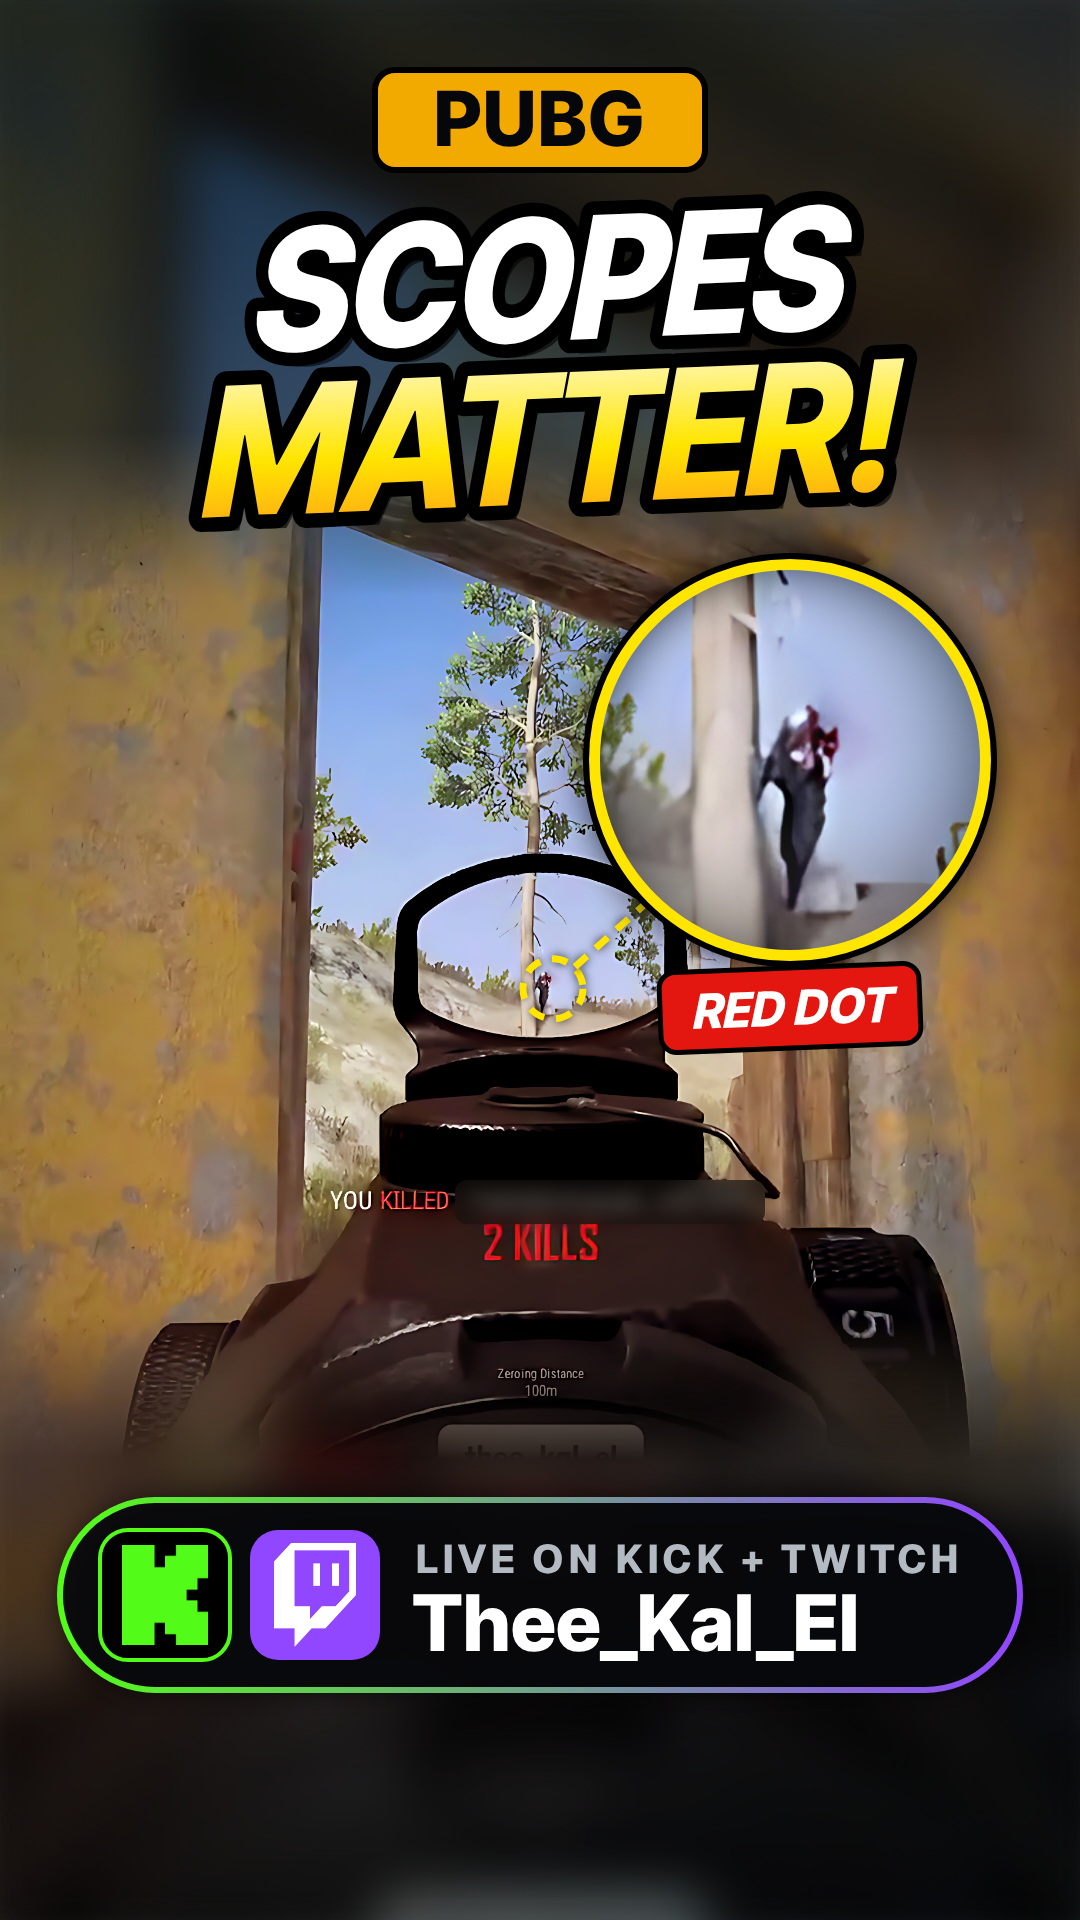
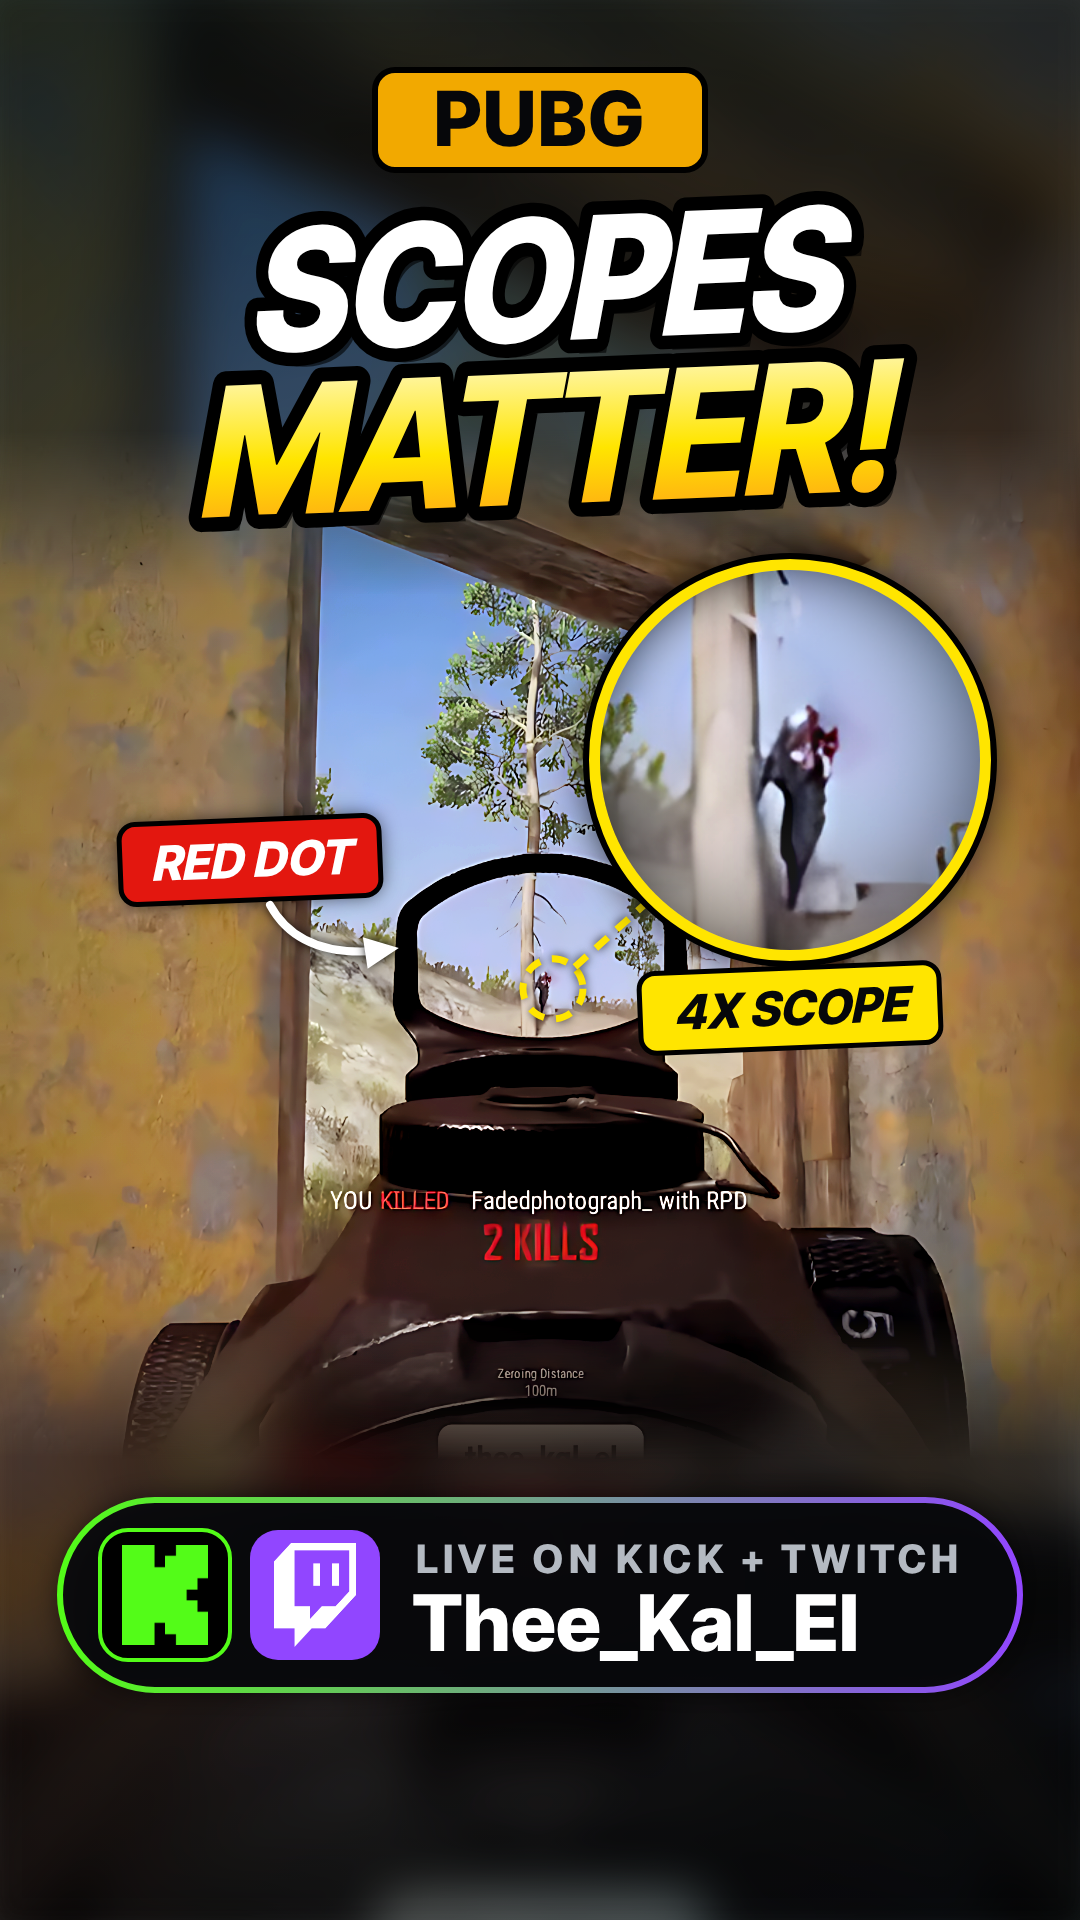
Scopes thumbnail: unblur feed, RED DOT left / 4X SCOPE right
Claude-Session: https://claude.ai/code/session_01NSJvdmHsHoazKiuuGVQfMY

Changed region(s): [[0.0917, 0.4062, 0.3667, 0.5], [0.5806, 0.5, 0.8861, 0.5625], [0.4278, 0.5938, 0.7028, 0.6562]]

diff --git a/story/pubg_scopes_thumb.html b/story/pubg_scopes_thumb.html
@@ -29,8 +29,6 @@
   // soft vignette for the type
   g = c.createRadialGradient(EX, EY, 380, EX, EY, 1250); g.addColorStop(0, 'rgba(0,0,0,0)'); g.addColorStop(1, 'rgba(0,0,0,0.55)'); c.fillStyle = g; c.fillRect(0, 0, W, H);
 
-  // hide the other player's name in the kill feed (keep YOU KILLED + 2 KILLS)
-  c.save(); c.beginPath(); rr(455, 1180, 310, 44, 12); c.clip(); c.filter = 'blur(10px)'; c.drawImage(c.canvas, 0, 0); c.filter = 'none'; c.fillStyle = 'rgba(20,16,12,0.55)'; c.fillRect(455, 1180, 310, 44); c.restore();
   // ---- magnifier: the 1-pixel enemy inside the red dot, blown up in a lens bubble with a leader line
   { const MX = 790, MY = 760, MR = 190;
     c.save(); c.strokeStyle = YEL; c.lineWidth = 7; c.setLineDash([16, 12]); c.shadowColor = 'rgba(0,0,0,0.8)'; c.shadowBlur = 10;
@@ -40,8 +38,13 @@
     const gg = c.createRadialGradient(MX - 60, MY - 70, 10, MX, MY, MR); gg.addColorStop(0, 'rgba(255,255,255,0.25)'); gg.addColorStop(0.4, 'rgba(255,255,255,0)'); gg.addColorStop(1, 'rgba(0,0,0,0.35)'); c.fillStyle = gg; c.fillRect(MX - MR, MY - MR, MR * 2, MR * 2); c.restore();
     c.beginPath(); c.arc(MX, MY, MR + 14, 0, TAU); c.lineWidth = 6; c.strokeStyle = '#000'; c.stroke();
     // range tag
-    c.save(); c.translate(MX, MY + MR + 58); c.rotate(-0.04); rr(-130, -40, 260, 80, 16); c.fillStyle = '#E3170F'; c.fill(); c.lineWidth = 5; c.strokeStyle = '#000'; c.stroke();
-    c.font = 'italic ' + D(48); c.fillStyle = '#fff'; c.textAlign = 'center'; c.textBaseline = 'middle'; c.letterSpacing = '0px'; c.fillText('RED DOT', 0, 3); c.restore(); }
+    c.save(); c.translate(MX, MY + MR + 58); c.rotate(-0.04); rr(-150, -40, 300, 80, 16); c.fillStyle = YEL; c.fill(); c.lineWidth = 5; c.strokeStyle = '#000'; c.stroke();
+    c.font = 'italic ' + D(48); c.fillStyle = INK; c.textAlign = 'center'; c.textBaseline = 'middle'; c.letterSpacing = '0px'; c.fillText('4X SCOPE', 0, 3); c.restore();
+    // RED DOT tag on the left, pointing at the sight
+    c.save(); c.translate(250, 860); c.rotate(-0.04); rr(-130, -40, 260, 80, 16); c.fillStyle = '#E3170F'; c.shadowColor = 'rgba(0,0,0,0.7)'; c.shadowBlur = 20; c.fill(); c.shadowBlur = 0; c.lineWidth = 5; c.strokeStyle = '#000'; c.stroke();
+    c.font = 'italic ' + D(48); c.fillStyle = '#fff'; c.textAlign = 'center'; c.textBaseline = 'middle'; c.fillText('RED DOT', 0, 3); c.restore();
+    c.save(); c.strokeStyle = '#fff'; c.fillStyle = '#fff'; c.lineWidth = 8; c.lineCap = 'round'; c.shadowColor = 'rgba(0,0,0,0.8)'; c.shadowBlur = 10;
+    c.beginPath(); c.moveTo(270, 905); c.quadraticCurveTo(300, 960, 385, 950); c.stroke(); c.translate(385, 950); c.rotate(-0.15); c.beginPath(); c.moveTo(14, 0); c.lineTo(-20, -16); c.lineTo(-20, 16); c.closePath(); c.fill(); c.restore(); }
 
   // ---- headline, stacked over the ceiling
   function word(s, x, y, size, fill, rot = -0.04, sx = 0.9) {
